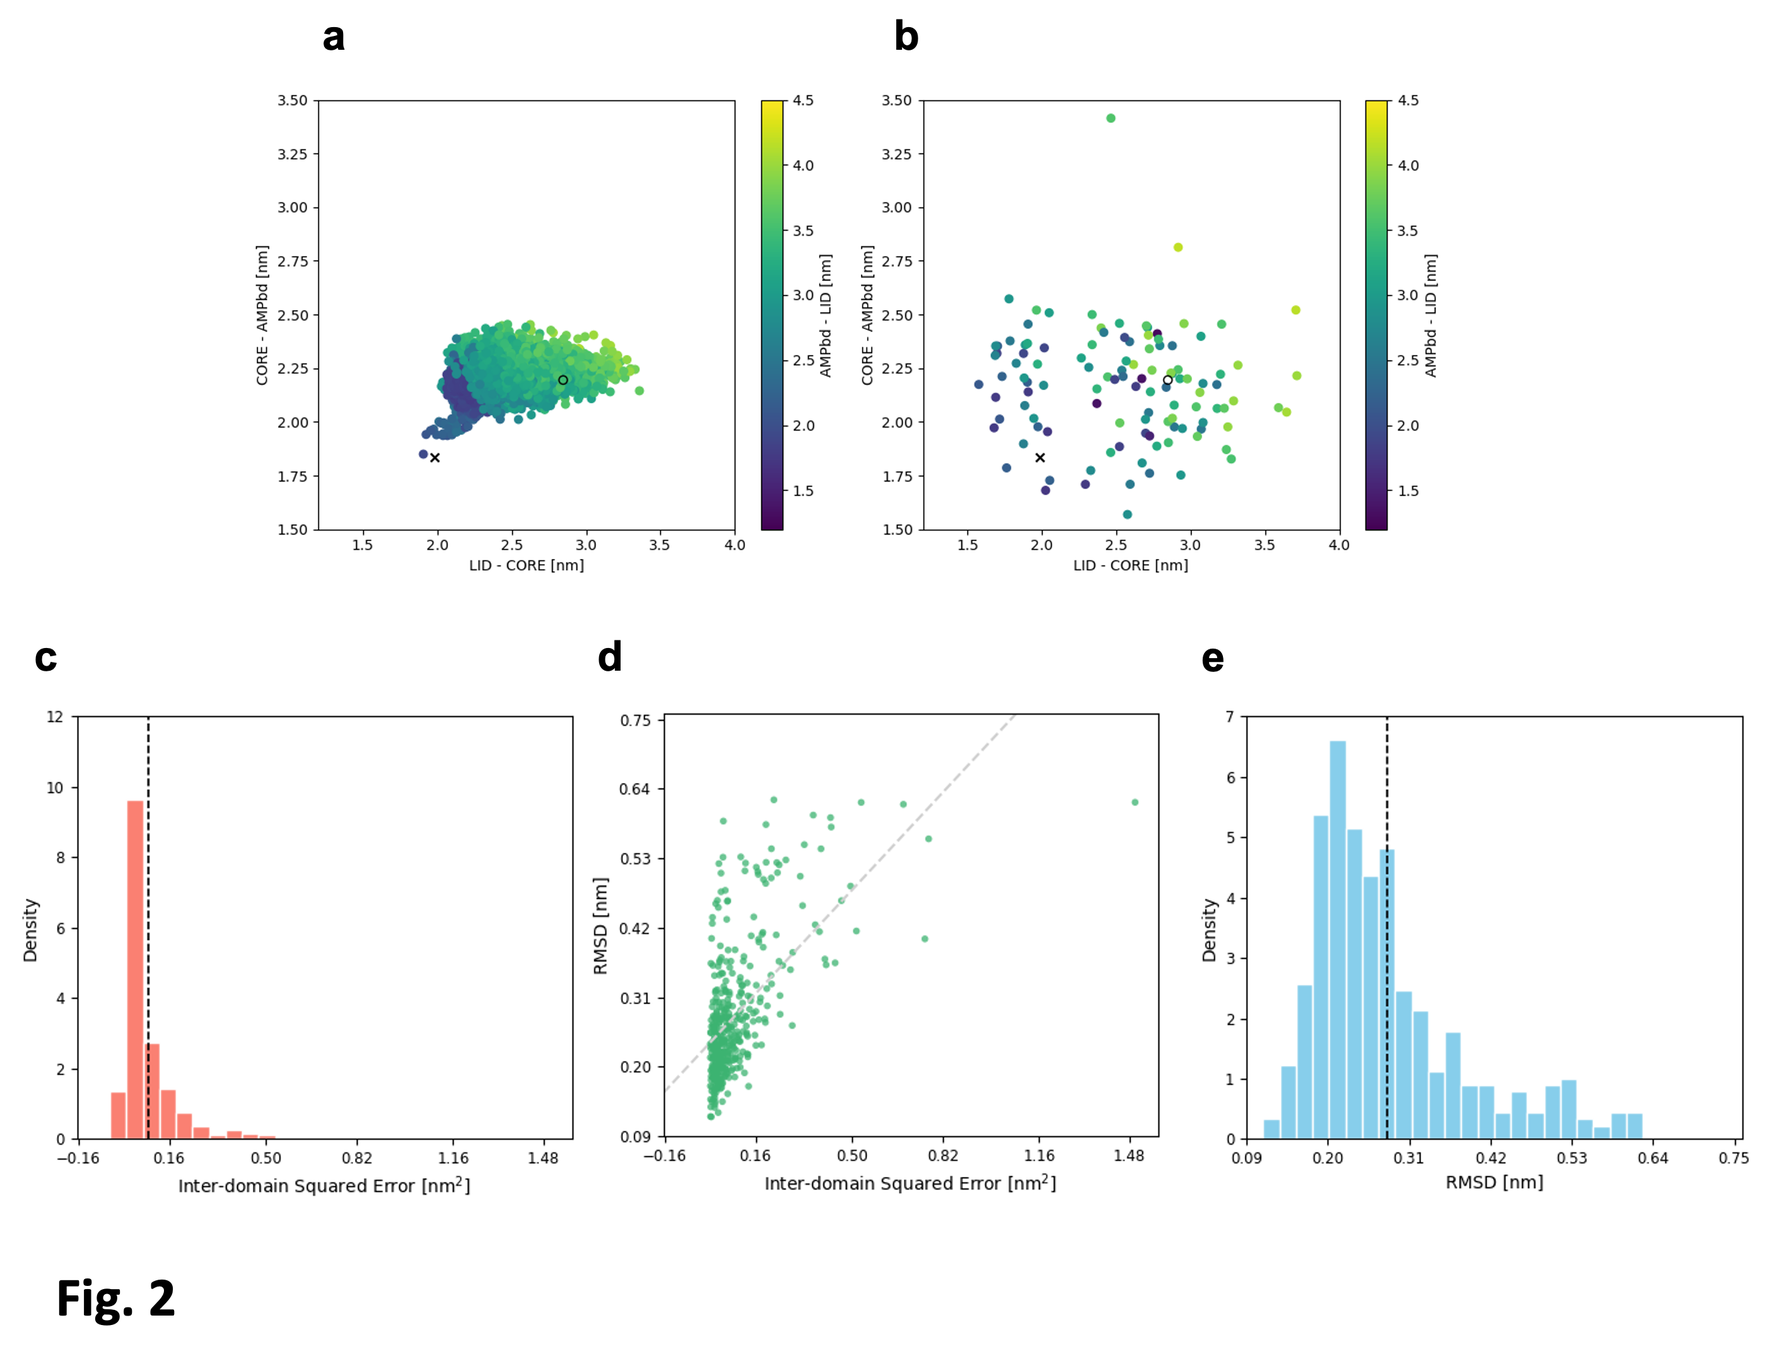
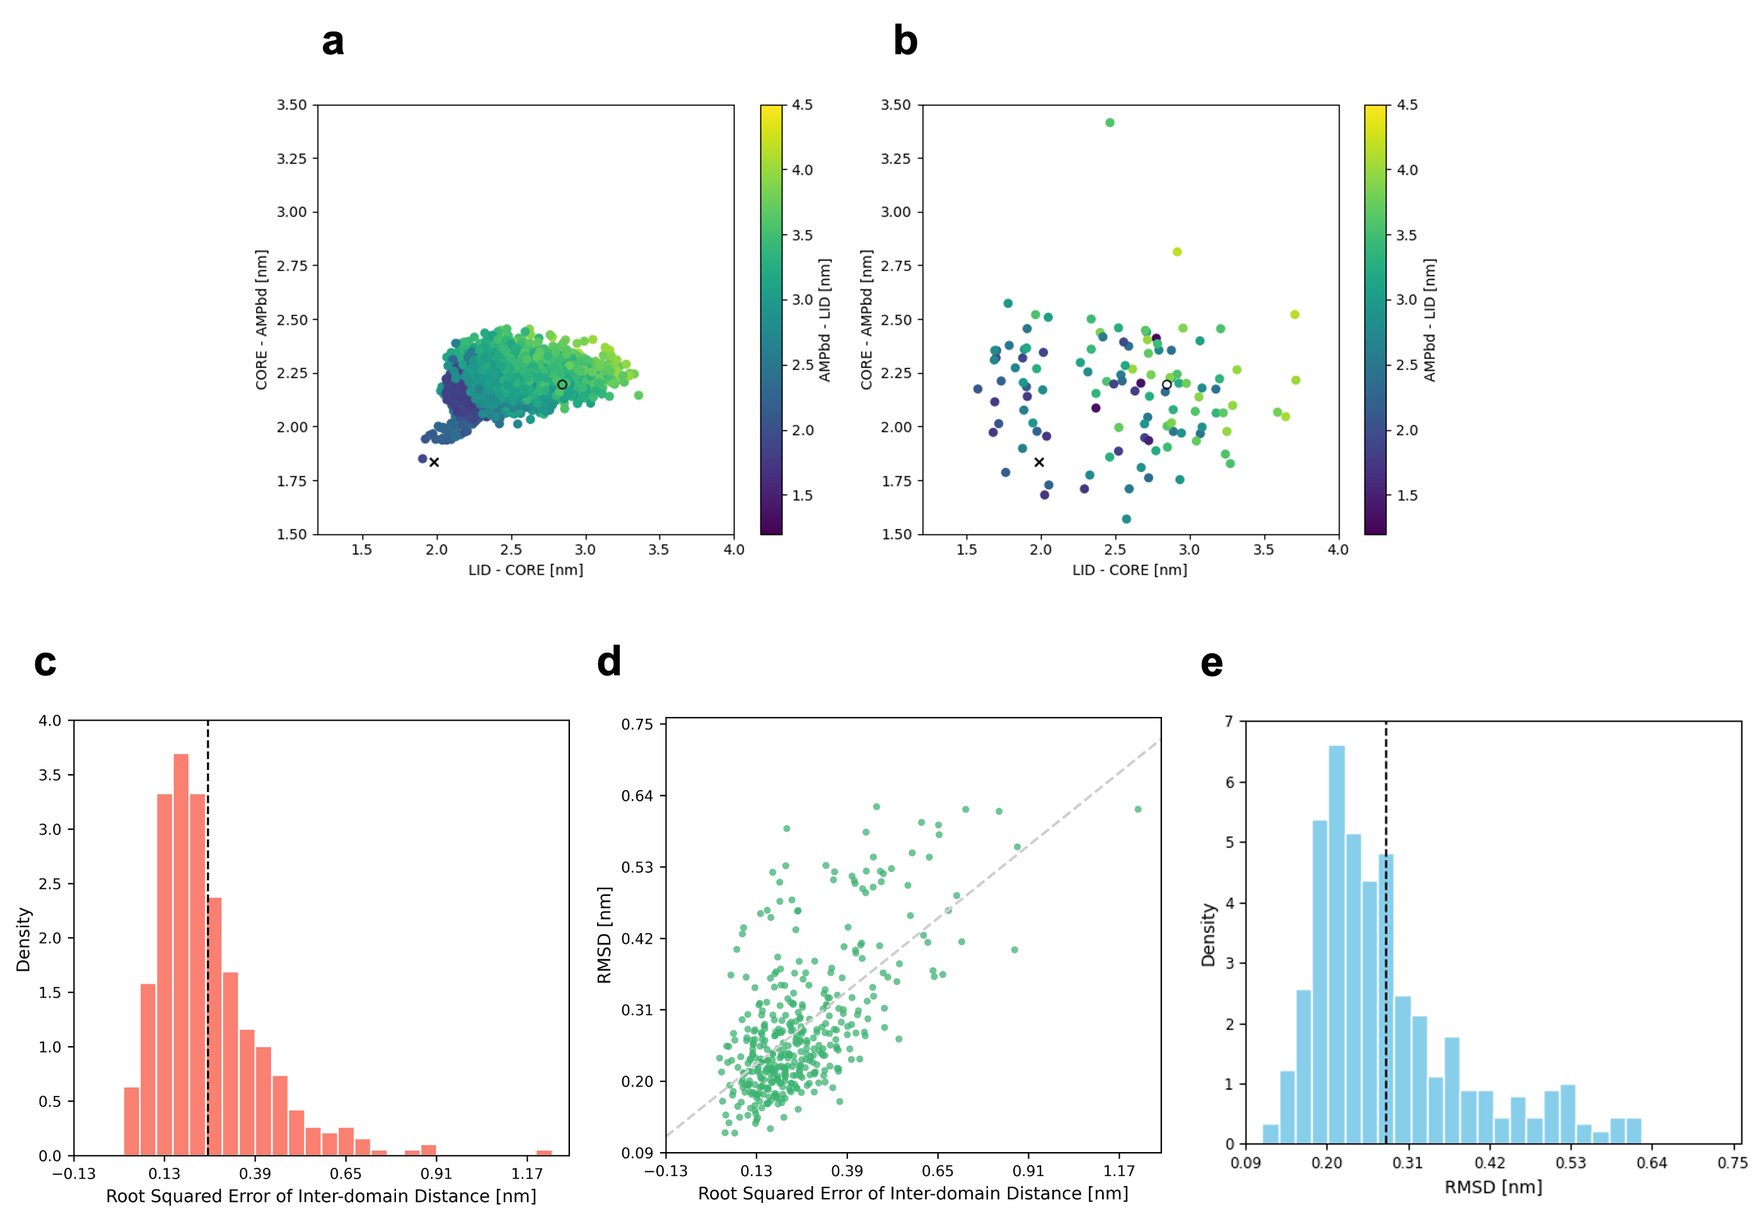
results (before noise)

diff --git a/paper/sections/results.tex b/paper/sections/results.tex
@@ -4,52 +4,17 @@
 \subsection{Adenylate Kinase}
 \label{subsec:ak_results}
 
-%To first validate the effectiveness of \Model, we employed 
-Adenylate Kinase (\AK) is a well-studied monomeric enzyme known for its large-scale conformational transitions. 
-%, catalyzing the reversible phosphoryl transfer reaction (ATP + AMP $\leftrightarrow$ 2ADP) that regulates cellular energy homeostasis. 
-It is composed of three relatively rigid domains: the central CORE domain (residues 1–29, 68–117, and 161–214), the AMP-binding domain (AMPbd; residues 30–67), and the lid-like ATP-binding domain (LID; residues 118–167). 
-Experimental and computatinoal studies have suggested that upon ligand binding, the enzyme undergoes a transition from an inactive open conformation to an active closed conformation (see \Cref{fig:overview}~(c)). 
-Here, we evaluated how accurately \Model reconstructs 3D conformations of \AK from AFM images.
+Adenylate Kinase (\AK) is a well-studied monomeric enzyme known for its large-scale conformational transitions. It is composed of three relatively rigid domains: the central CORE domain (residues 1–29, 68–117, and 161–214), the AMP-binding domain (AMPbd; residues 30–67), and the lid-like ATP-binding domain (LID; residues 118–167). Experimental and computatinoal studies have suggested that upon ligand binding, the enzyme undergoes a transition from an inactive open conformation to an active closed conformation (see \Cref{fig:overview}~(c)). Here, we evaluated how accurately \Model reconstructs 3D conformations of \AK from AFM images.
 
 %\paragraph{CNN training.}
-First, we checked the quality of the conformational ensemble generated by \AFiii for the training of the g-CNN. Here, the conformations were generated by steering \AFiii with CV values on a grid as described in \Cref{subsubsec:afm-prep}. 
-%are projected them to the inter-domain distance space (\Cref{fig:ak_cnn_training}~(b)).
-%Results are shown in \cref{fig:ak_cnn_training}~(b). 
-As the CVs, we used the inter-domain distances of all possible combinations of domain pairs (LID--CORE, CORE--AMPbd, and AMPbd--LID). 
-% is equivalent to $\R^3$.
-To obtain physically plausible structures as accurately as possible via steering to the target CVs, we systematically compared results using various steering schedules with different strengths and onset timings, and selected an optimal schedule strategy (see Supporting Information S1 for details).
-\Cref{fig:ak_cnn_training}~(b) shows the generated conformations projected to the LID--CORE, and CORE--AMPbd distances (colored by the AMPbd--LID distance), in comparison with \Cref{fig:ak_cnn_training}~(a), which shows the projection of the conformations sampled by a 450~ns MD simulation.
-Compared with the MD simulation, the conformations generated by \AFiii adequately cover a broad conformational space of \AK,  including both closed (PDB ID: 1AKE) and open (PDB ID: 4AKE) crystal structures. 
-This means that the g-CNN trained on this ensemble can learn the broad relationship between AFM images and the inter-domain distances of \AK.
-% Comparison of the two projections shows that the generated conformations adequately covered a broad conformational space of \AK.
-%\Cref{fig:ak_cnn_training}~(a) is that of representive conformations in a 450 ns MD trajectory. 
-%In this simulation, multiple transitions between the open and closed conformations were observed, suggesting that a wide conformational space was explored. 
-%Importantly, the sampling broadly covered the conformational space that was explored by MD. 
-%even though we used no prior knowledge about MD simulations.
+First, we checked the quality of the conformational ensemble generated by \AFiii for the training of the g-CNN. Here, the conformations were generated by steering \AFiii with CV values on a grid as described in \Cref{subsubsec:afm-prep}. As the CVs, we used the inter-domain distances of all possible combinations of domain pairs (LID--CORE, CORE--AMPbd, and AMPbd--LID). To obtain physically plausible structures as accurately as possible via steering to the target CVs, we systematically compared results using various steering schedules with different strengths and onset timings, and selected an optimal schedule strategy (see Supporting Information S1 for details). \Cref{fig:ak_cnn_training}~(b) shows the generated conformations projected to the LID--CORE, and CORE--AMPbd distances (colored by the AMPbd--LID distance), in comparison with \Cref{fig:ak_cnn_training}~(a), which shows the projection of the conformations sampled by a 450~ns MD simulation. Compared with the MD simulation, the conformations generated by \AFiii adequately cover a broad conformational space of \AK,  including both closed (PDB ID: 1AKE) and open (PDB ID: 4AKE) crystal structures. This means that the g-CNN trained on this ensemble can learn the broad relationship between AFM images and the inter-domain distances of \AK.
 
 %\paragraph{Accuracy evaluation.}
-Next, we investigated whether the trained g-CNN accurately estimates CV values from given pseudo-AFM images.
-Here, we estimated CV values from pseudo-AFM images emulated using randomly chosen conformations from the MD simulation trajectory. 
-The pseudo-AFM images were generated with the same settings as those in \Cref{tab:afm_settings}. 
-\Cref{fig:ak_cnn_training}~(c) shows the distribution of the squared error in the CV space between the estimated values with the trained g-CNN and the ground-truth values.
-With the exceptions of some outlier errors greater than 0.50~${\rm nm}^2$, the trained g-CNN achieves the average squared error of XXXXXXX~${\rm nm}^2$, which is enough resolution to capture intermediate conformational states of \AK. 
+Next, we investigated whether the trained g-CNN accurately estimates CV values from given pseudo-AFM images. Here, we estimated CV values from pseudo-AFM images emulated using randomly chosen conformations from the MD simulation trajectory. The pseudo-AFM images were generated with the settings described in \Cref{tab:afm_settings}. \Cref{fig:ak_cnn_training}~(c) shows the distribution of the root squared error in the CV space between the estimated values with the trained g-CNN and the ground-truth values. With the exceptions of some outlier errors greater than XXXXX~nm, the trained g-CNN achieves the average squared error of 0.254~nm, which is enough resolution to capture intermediate conformational states of \AK. 
 
-%Since the CV values in a grid used for generating conformations include unphysical values, which may not be physically achievable, 
-Finally, we investigated the accuracy of the estimated conformatinos of our \Model framework. 
-As a demonstration, we first estimated the closed and open conformations of \AK from the pseudo-AFM images emulated from the closed and open crystal structures (see \Cref{fig:overview}~(b)).
-%We evaluated the accuracy of steering by using the CV values of the crystal structures. 
-% and the conformations sampled by the MD simulation. 
-%\AFiii generated an open conformation when we did not impose any restraints. 
-%As an initial test of \Model's ability to steer \AFiii's sampling trajectory, we generated pseudo-AFM images from the closed (PDB ID: 1AKE) and open (PDB ID: 4AKE) crystal structures, and reconstructed 3D conformations from each image. 
-\Cref{fig:overview}~(c) show the generated structues by the protocol of \Model (i.e., g-CNN + \AFiii steering). 
-The RMSD between the ground-truth and reconstructed conformations was 0.216~nm for the closed form and 0.176~nm for the open form, respectively. 
-Considering that the RMSD between the closed and open crystal structures is 0.715~nm, \Model estimation is accurate enough to distinguish the two states. 
-%The pseudo-AFM images generated from predicted conformations after rigid-body fitting of the generated structures are displayed in \Cref{fig:overview}~(b). 
-Using \Cref{eq:cc} to compute the c.c. between the AFM images created from the estimated conformations and the given image, we obtained 0.997 for the closed form and 0.998 for the open form, respectively.
+Finally, we investigated the accuracy of the estimated conformatinos of our \Model framework. As a demonstration, we first estimated the closed and open conformations of \AK from the pseudo-AFM images emulated from the closed and open crystal structures (see \Cref{fig:overview}~(b)). \Cref{fig:overview}~(c) show the generated structues by the protocol of \Model (i.e., g-CNN + \AFiii steering). The RMSD between the ground-truth and reconstructed conformations was 0.216~nm for the closed form and 0.176~nm for the open form, respectively. Considering that the RMSD between the closed and open crystal structures is 0.715~nm, \Model estimation is accurate enough to distinguish the two states. Using \Cref{eq:cc} to compute the c.c. between the AFM images created from the estimated conformations and the given image, we obtained 0.997 for the closed form and 0.998 for the open form, respectively. 
 
-We then evaluated the RSMDs of the estimated conformations from the same pseudo-AFM images as above (emulated from radomly chosen confrmations from the MD simulation trajectory). 
-\Cref{fig:ak_cnn_training}~(e) shows the distribution of the RMSDs between the ground-truth and estimated conformations. Overall, the RMSD values are low and, aside from a small number of outliers, most RMSDs are distributed around the mean value of approximately XXXXX~nm. \Cref{fig:ak_cnn_training}~(d) shows the scatter plot of the RMSD and the squared errors of the predicted CVs between the ground-truth and estimated conformations. 
-Overall, we observed a reasonable correlation between the mean squared errors of the predicted CVs and the RMSDs of the reconstructed structures. However, some scatter remains in RMSD at similar squared error levels; that is, even with comparable CV errors, the RMSDs can vary. Upon close inspection of the generated structures, we found that this arises because a given set of CVs (inter-domain distances) does not always uniquely determine the domain arrangement. Specifically, both hinge-bending (open--close transition) and shear-like (twisted) domain motions can yield similar inter-domain distances, despite resulting in structurally distinct conformations. This degeneracy in the CV--structure mapping explains the occurrence of RMSD outliers even when the predicted CV values are accurate.
+We then evaluated the RSMDs of the estimated conformations from the same pseudo-AFM images as above (emulated from radomly chosen confrmations from the MD simulation trajectory). \Cref{fig:ak_cnn_training}~(e) shows the distribution of the RMSDs between the ground-truth and estimated conformations. Overall, the RMSD values are low and, aside from a small number of outliers, most RMSDs are distributed around the mean value of approximately 0.281~nm. \Cref{fig:ak_cnn_training}~(d) shows the scatter plot of the RMSD and the root squared errors of the predicted CVs between the ground-truth and estimated conformations. Overall, we observed a reasonable correlation between the root squared errors of the predicted CVs and the RMSDs of the reconstructed structures. However, some scatter observed in RMSD at similar squared error levels; that is, even with comparable CV errors, the RMSDs can vary. Upon close inspection of the generated structures, we found that this arises because a given set of CVs (inter-domain distances) does not always uniquely determine the domain arrangement. Specifically, both hinge-bending (open--close transition) and shear-like (twisted) domain motions can yield similar inter-domain distances, despite resulting in structurally distinct conformations. This degeneracy in the CV--structure mapping explains the occurrence of RMSD outliers even when the predicted CV values are accurate.
 
 %A second factor that degrades reconstruction accuracy is the quality of the images themselves.
 %\Cref{fig:ak_accuracy}~(a) shows the distribution of RMSD between the ground-truth and predicted conformations.
@@ -63,54 +28,27 @@ Overall, we observed a reasonable correlation between the mean squared errors of
     \centering
     \includegraphics[width=0.7\linewidth]{images/figures-02.png}
     \caption{
-        \textbf{Training data and prediction accuracy of the group-invariant CNN}.
+        \textbf{Training data and accuracy of the group-invariant CNN and \AFiii steering}.
         \textbf{(a)} Projection of a 450 ns MD simulation trajectory into the inter-domain distance space. 
-        \textbf{(b)} Projection of the candidate conformations into the inter-domain distance space. 
-        \textbf{(c)} A histogram of root squared error in the inter-domain distance space between the pre-trained CNN's outputs and ground-truth. 
-        The CNN predicted inter-domain distance from pseudo-AFM images, which were generated from randomly selected MD conformations. 
-        The root mean squared error (RMSE) was 0.254 nm.
-        \textbf{(d)} A scatter plot of root squared error in the inter-domain distance space and heavy-atom RMSDs. 
-        The RMSD was computed between the conformation generated with \AFiii steering using the predicted CV values, and the ground-truth conformation.
-        \textbf{(e)} A histogram of heavy-atom RMSDs that were computed about randomly selected MD conformations and predicted conformations. The mean value was 0.281 nm.
+        \textbf{(b)} Projection of \AFiii-generated training data into the inter-domain distance space. 
+        \textbf{(c)} Density of root squared error in the inter-domain distance space between the trained g-CNN's estimations and the ground-truth. The inter-domain distance was estimated by the trained g-CNNfrom pseudo-AFM images, which were generated from randomly selected MD conformations. The average of the root squared errors is indicated by the broken line (0.254 nm). 
+        \textbf{(d)} Scatter plot of the root squared error in the inter-domain distance space and the heavy-atom RMSDs from the ground-truth conformation. 
+        The heavy-atom RMSD was computed between the conformation generated with \AFiii steering using the predicted CV values, and the ground-truth conformation.
+        \textbf{(e)} Density of the heavy-atom RMSDs. The average of the RMSD is indicated by the broken line (0.281 nm).
         }
     \label{fig:ak_cnn_training}
 \end{figure}
 
-%\paragraph{Accuracy evaluation.}
-%Finally, we investigated the accuracy of the estimated conformatinos of our \Model framework. Here, we estimated CV values from pseudo-AFM images emulated from representative conformations of the 450 ns MD simulation, and steered \AFiii using the estimated CV values to generated 3D conformations. The pseudo-AFM images were generated with the same settings as those in \Cref{tab:afm_settings}. 
-%To investigate the prediction accuracy of \Model, we extracted representative conformations from the 450 ns MD simulation and generated pseudo-AFM images (settings identical to those in \cref{tab:afm_settings}).
-%Using these images, we predicted 3D conformations with the \Model framework.
-%\Cref{fig:ak_cnn_training}~(c) shows the histogram of the root squared error (RMSE) in the CV space between the predicted values with the trained g-CNN and the ground-truth values.
-% and \cref{fig:ak_accuracy}~(a)--(c).
-%An informative observation is that we can analyze sources of error in \Model's 3D conformation reconstruction.
-%From the histogram of the root square error between the pre-trained CNN predictions and the ground-truth inter-domain distances (\cref{fig:ak_cnn_training}~(c))
-%With the exceptions of some outlier errors greater than RMSE of 0.5 nm, the trained g-CNN achieves the average RMSE of 0.183 nm, which is enough resolution to capture intermediate conformational states. 
-
-%\Cref{fig:ak_cnn_training}~(d) shows the ${\mathrm{C}\alpha}$-atom RMSDs between the generated conformations with \AFiii steering and the ground-truth conformations.
-%Based on a linear regression, the CNN’s typical prediction error corresponds to an RMSD of 0.245 nm. 
-%However, \Cref{fig:ak_cnn_training}~(d) also shows cases where the RMSD remains relatively large even when the CNN predictions are accurate: specifically, points in the upper-left region exhibit small RMSE but large RMSD.
-%Close inspection of such cases reveals that this discrepancy arises when domains move along a shear direction: inter-domain distances remain similar, but other degrees of freedom differ, yielding a larger RMSD.
-
 %\paragraph{Noise Robustness}
-Further, we evaluated the robustness of \Model's reconstruction accuracy to noise. 
-%To assess how \Model performs under varying noise conditions, we evaluated its robustness to image noise.
-From \cref{fig:noise_robustness}, we observed the following.
-When we used noise-free AFM images as training data, the model accurately extracted features and inferred structures from noise-free inputs.
-However, it lacked robustness to noisy inputs: inference accuracy degraded substantially when the reference images (inputs) were heavily contaminated by noise.
-By contrast, using images with comparatively high noise levels for training introduced a trade-off between peak accuracy and robustness.
-Specifically, even when the input noise matched the training noise, the prediction accuracy did not reach that of the noise-free case.
-Nevertheless, unlike the noise-free setting, the model retained reasonable accuracy even when the input noise level differed from that of the training data.
+Further, we evaluated the robustness of \Model's reconstruction accuracy against noise. From \cref{fig:noise_robustness}, we observed the following. When we used noise-free AFM images as training data, the model accurately extracted features and inferred structures from noise-free inputs. However, it lacked robustness to noisy inputs: inference accuracy degraded substantially when the reference images (inputs) were heavily contaminated by noise. By contrast, using images with comparatively high noise levels for training introduced a trade-off between peak accuracy and robustness. Specifically, even when the input noise matched the training noise, the prediction accuracy did not reach that of the noise-free case. Nevertheless, unlike the noise-free setting, the model retained reasonable accuracy even when the input noise level differed from that of the training data. 
 
-In general, the noise level of the training data should match that of the target images.
-Based on these results, the recommended practice depends on the noise level of the reference images.
-If the reference images have high noise levels ($\gtrsim 0.3$ nm), one should accept somewhat lower reliability, but reasonable accuracy can still be expected even when the input noise level differs from the training data.
-Conversely, if the reference images are low-noise, highly reliable predictions are achievable, but only when the input noise level is similar to that of the training data; images with markedly different noise levels should not be used as references.
+In general, the noise level of the training data should match that of the target images. Based on these results, the recommended practice depends on the noise level of the reference images. If the reference images have high noise levels ($\gtrsim 0.3$ nm), one should accept somewhat lower reliability, but reasonable accuracy can still be expected even when the input noise level differs from the training data. Conversely, if the reference images are low-noise, highly reliable predictions are achievable, but only when the input noise level is similar to that of the training data; images with markedly different noise levels should not be used as references.
 
 \begin{figure}[htbp]
     \centering
     \includegraphics[width=\linewidth]{images/figures-03.png}
     \caption{
-        \textbf{Evaluation of prediction accuracy}. 
+        \textbf{Reconstruction accuracy of \Model against noise}. 
         Panels (a) and (b) present the evaluations under noise-free conditions, whereas panels (c–f) evaluate the robustness of the predictions with respect to noise.
         \textbf{(a)} Histogram of correlation coefficients (c.c.) between reference images and rigid-body fitted predicted images (mean: 0.998). 
         \textbf{(b)} Scatter plot of c.c. and RMSD, indicating a negative correlation between image similarity and structural accuracy.
